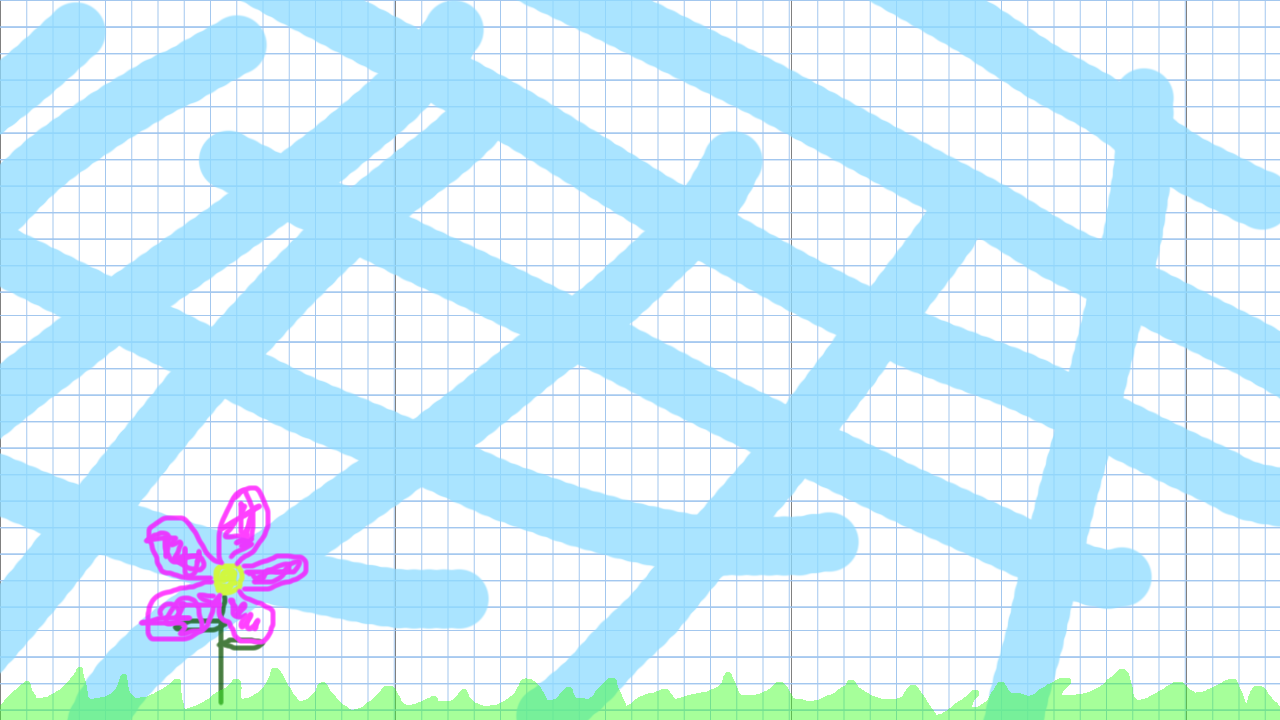
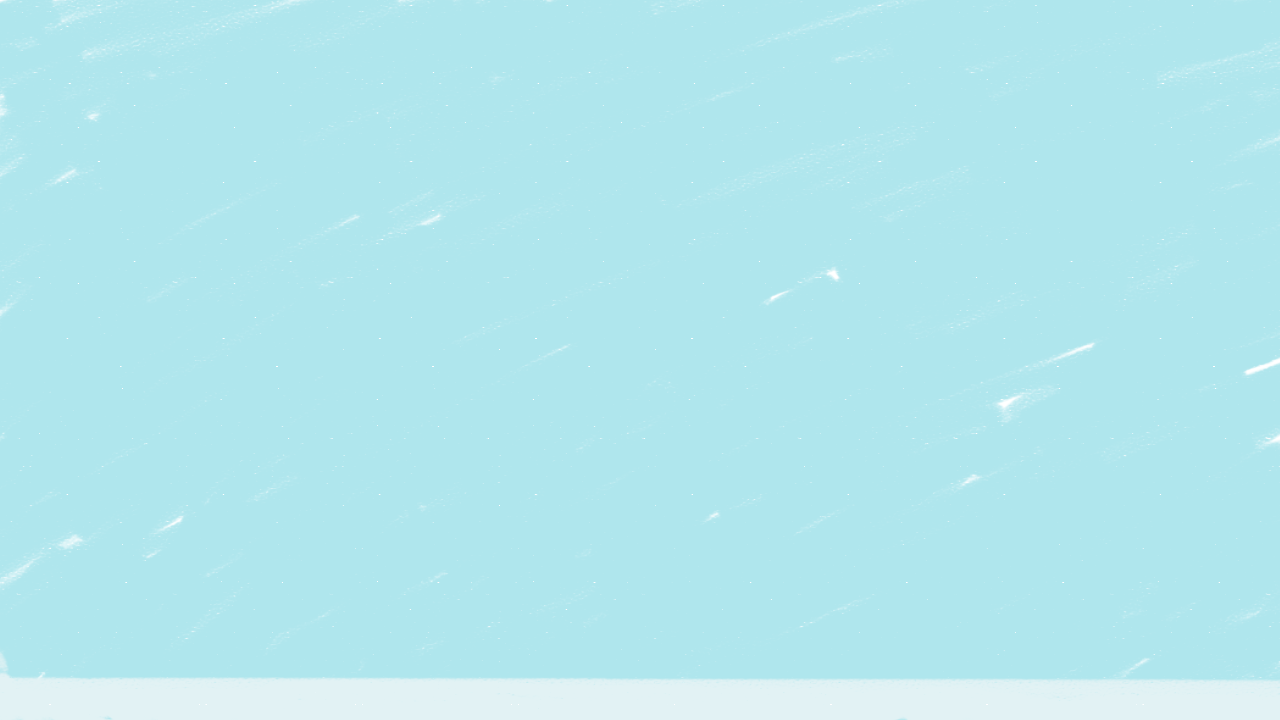
Emitter

diff --git a/Game_2_0/Pang/GameConfig.h b/Game_2_0/Pang/GameConfig.h
@@ -11,7 +11,7 @@ namespace GameConfig
 	const int SCREEN_WIDTH = 1280;
 	const int SCREEN_HEIGHT = 720;
 	const int FIXED_FRAMERATE = 60;
-	const int GROUND_Y = SCREEN_HEIGHT;
+	const int GROUND_Y = SCREEN_HEIGHT - 40;
 	const float GRAVITY_Y = 1.0f;
 	const float GROUND_FRICTION_X = 0.05f;
 	const int MAX_ATTEMPTS = 10;
@@ -86,23 +86,46 @@ namespace GameConfig
 	{
 		{
 			// LEVEL 01
-			{ 128, 128 },
 			{ 512, 512 },
-			{ 256, 256 }
-		}
-	};
-	const int LEVEL_BACKGROUNDANIM_FRAMES[LEVELS_LENGHT][LEVEL_BACKGROUNDANIMS_LENGHT] = { { 4, 4, 4 } };
-	const int LEVEL_BACKGROUNDANIM_COLUMNS[LEVELS_LENGHT][LEVEL_BACKGROUNDANIMS_LENGHT] = { { 2, 2, 2 } };
-	const int LEVEL_BACKGROUNDANIM_DURATION[LEVELS_LENGHT][LEVEL_BACKGROUNDANIMS_LENGHT] = { { 20, 20, 20 } };
-	const GameUtils2D::Vector2 LEVEL_BACKGROUNDANIM_POSITION[LEVELS_LENGHT][LEVEL_BACKGROUNDANIMS_LENGHT] =
-	{
-		{
-			{10, 10},
-			{SCREEN_WIDTH - 550, 50},
-			{200, 200}
+			{ 512, 512 },
+			{ 1280, 100 }
 		}
 	};
 
+	const int LEVEL_BACKGROUNDANIM_FRAMES[LEVELS_LENGHT][LEVEL_BACKGROUNDANIMS_LENGHT] = { { 4, 4, 1 } };
+	const int LEVEL_BACKGROUNDANIM_COLUMNS[LEVELS_LENGHT][LEVEL_BACKGROUNDANIMS_LENGHT] = { { 2, 2, 1 } };
+	const int LEVEL_BACKGROUNDANIM_DURATION[LEVELS_LENGHT][LEVEL_BACKGROUNDANIMS_LENGHT] = { { 60, 20, -1 } };
+	const GameUtils2D::Vector2 LEVEL_BACKGROUNDANIM_POSITION[LEVELS_LENGHT][LEVEL_BACKGROUNDANIMS_LENGHT] =
+	{
+		{
+			{250, GROUND_Y - 256},
+			{SCREEN_WIDTH - 175, 125},
+			{0 + 640, GROUND_Y - 50}
+		}
+	};
+
+	// TODO: Detectar colisio amb multiples Emitters!
 	const int LEVEL_BUBBLEMANAGERS_LENGHT[LEVELS_LENGHT] = { 1 };
 	const int LEVEL_BUBBLEMANAGERS_CAT[LEVELS_LENGHT][3] = { {3, 3, 3} };
+
+	// PARTICLES
+	enum Emitters{TEST = 0};
+	const int EMITTERS_LENGHT = 1;
+	const char PARTICLES_SPRITE[EMITTERS_LENGHT][45] = { "assets/particles/test_particle.png" };
+	const int PARTICLES_LENGHT[EMITTERS_LENGHT] = { 30 };
+	const float PARTICLES_MIN_SPEED[EMITTERS_LENGHT] = { 1.0f };
+	const float PARTICLES_MAX_SPEED[EMITTERS_LENGHT] = { 2.0f };
+	const int PARTICLES_MIN_DURATION[EMITTERS_LENGHT] = { 60 };
+	const int PARTICLES_MAX_DURATION[EMITTERS_LENGHT] = { 90 };
 }
+
+
+
+
+
+
+
+
+
+
+

diff --git a/Game_2_0/Pang/ParticlesEmitter.cpp b/Game_2_0/Pang/ParticlesEmitter.cpp
@@ -1,0 +1,72 @@
+#include "ParticlesEmitter.h"
+
+ParticlesEmitter::ParticlesEmitter()
+{
+	m_particles = NULL;
+}
+
+
+ParticlesEmitter::~ParticlesEmitter()
+{
+	delete[] m_particles;
+}
+
+void ParticlesEmitter::New(Emitters type, Vector2 position, ALLEGRO_BITMAP * image)
+{
+	m_type = type;
+	SetPosition(position);
+	m_particles = new Particle[PARTICLES_LENGHT[m_type]];
+
+	//for (int i = 0; i < PARTICLES_LENGHT[m_type]; i++) m_particles[i] = Particle(image);
+	for (int i = 0; i < PARTICLES_LENGHT[m_type]; i++) m_particles[i].Construct(image);
+}
+
+void ParticlesEmitter::Burst()
+{
+	for (int i = 0; i < PARTICLES_LENGHT[m_type]; i++)
+	{
+		if (IsActive())
+		{
+			// TODO: CHECK RANDOM FUNCS!!!
+			m_particles[i].New(
+			GetPosition(),
+			{ 1, 1/*GetRandomValue(PARTICLES_MIN_SPEED[m_type], PARTICLES_MAX_SPEED[m_type]), GetRandomValue(PARTICLES_MIN_SPEED[m_type], PARTICLES_MAX_SPEED[m_type])*/ },
+			{(float)GetRandomValue(-1, 1), (float)GetRandomValue(-1, 1)},
+			{ GetRandomValue(PARTICLES_MIN_DURATION[m_type], PARTICLES_MAX_DURATION[m_type])}
+			);
+		}
+	}
+}
+
+void ParticlesEmitter::Update()
+{
+	if (IsActive())
+	{
+		for (int i = 0; i < PARTICLES_LENGHT[m_type]; i++)
+		{
+			m_particles[i].Update();
+		}
+	}
+}
+
+void ParticlesEmitter::Draw()
+{
+	if (IsDrawable())
+	{
+		for (int i = 0; i < PARTICLES_LENGHT[m_type]; i++)
+		{
+			m_particles[i].Draw();
+		}
+	}
+}
+
+bool ParticlesEmitter::IsAnyParticleActive()
+{
+	int i = 0;
+	while (!m_particles[i].IsActive() && i < PARTICLES_LENGHT[m_type])
+	{
+		i++;
+	}
+
+	return i != PARTICLES_LENGHT[m_type];
+}

diff --git a/Game_2_0/Pang/Pang.cpp b/Game_2_0/Pang/Pang.cpp
@@ -16,8 +16,12 @@ Pang::~Pang()
 
 void Pang::Initialize()
 {
+	srand((unsigned int)time(NULL));
+
 	player.New(0);
 	levelManager.StartNewLevel(0);
+	pEmitter.New(TEST, { SCREEN_WIDTH / 2, SCREEN_HEIGHT / 2 }, al_load_bitmap(PARTICLES_SPRITE[TEST]));
+	
 	//background.New(al_load_bitmap("main_background.png"), 2);
 	//background.NewAnimation(al_load_bitmap("clowd.png"), { 128, 128 }, 4, 2, 20, { 200, 150 }, 0);
 	//background.NewAnimation(al_load_bitmap("solet.png"), { 512, 512 }, 4, 2, 10, { SCREEN_WIDTH - 150, 150 }, 1);
@@ -58,6 +62,12 @@ void Pang::Update()
 	{
 		if (levelManager.GetIsStarted())
 		{
+			pEmitter.Update();
+			if (!pEmitter.IsAnyParticleActive())
+			{
+				printf("BURST!\n");
+				pEmitter.Burst();
+			}
 			player.CheckBubblesCollision(levelManager.GetBubbles(), levelManager.GetBubblesLenght());
 			player.Update();
 
@@ -77,6 +87,7 @@ void Pang::Draw()
 {
 	levelManager.Draw();
 	player.Draw();
+	pEmitter.Draw();
 
 	if (isPaused)
 	{

diff --git a/Game_2_0/Pang/Particle.cpp b/Game_2_0/Pang/Particle.cpp
@@ -1,0 +1,62 @@
+#include "Particle.h"
+
+
+
+Particle::Particle()
+{
+}
+
+
+Particle::~Particle()
+{
+}
+
+//Particle::Particle(ALLEGRO_BITMAP* image)
+//{
+//	m_sprite.New(image);
+//	Deactivate();
+//}
+
+void Particle::Construct(ALLEGRO_BITMAP * image)
+{
+	m_sprite.New(image);
+	Deactivate();
+}
+
+void Particle::New(Vector2 position, Vector2 speed, Vector2 direction, int duration)
+{
+	SetPosition(position);
+	m_speed = speed;
+	m_direction = direction;
+	m_velocity = { 0, 0 };
+	m_counter = duration;
+	Activate();
+	
+
+}
+
+void Particle::Update()
+{
+	if (IsActive())
+	{
+		m_velocity = m_speed*m_direction;
+		Translate(m_velocity);
+
+		if (m_counter == 0)
+		{
+			Deactivate();
+		}
+		else
+		{
+			m_counter--;
+		}
+	}
+}
+
+void Particle::Draw()
+{
+	if(IsDrawable())
+	{
+		m_sprite.Draw(GetPosition());
+	}
+}

diff --git a/Game_2_0/Pang/Animation2D.cpp b/Game_2_0/Pang/Animation2D.cpp
@@ -107,23 +107,25 @@ void Animation2D::Reset()
 
 void Animation2D::Update()
 {
-	if (counter >= duration)
+	if (duration != -1)
 	{
-		counter = 0;
-
-		if (currentFrame < frames-1)
+		if (counter >= duration)
 		{
-			currentFrame++;
+			counter = 0;
+
+			if (currentFrame < frames - 1)
+			{
+				currentFrame++;
+			}
+			else if (repeat) currentFrame = 0;
+
+			//printf("currFrame: %i \n", currentFrame);
 		}
-		else if (repeat) currentFrame = 0;
-
-		//printf("currFrame: %i \n", currentFrame);
+		else
+		{
+			counter++;
+		}
 	}
-	else
-	{
-		counter++;
-	}
-
 }
 
 void Animation2D::Draw(Vector2 position, bool hFlip)

diff --git a/Game_2_0/Pang/Particle.h b/Game_2_0/Pang/Particle.h
@@ -1,0 +1,28 @@
+#pragma once
+
+#include "GameObject.h"
+#include "Sprite.h"
+
+class Particle : public GameObject
+{
+private:
+
+	Sprite m_sprite;
+	Vector2 m_speed;
+	Vector2 m_direction;
+	Vector2 m_velocity;
+	int m_counter;
+	
+public:
+	Particle();
+	~Particle();
+
+	//Particle(ALLEGRO_BITMAP* image);
+	void Construct(ALLEGRO_BITMAP* image);
+	void New(Vector2 position, Vector2 speed, Vector2 direction, int duration);
+	void Update();
+	void Draw();
+
+
+};
+

diff --git a/Game_2_0/Pang/ParticlesEmitter.h b/Game_2_0/Pang/ParticlesEmitter.h
@@ -1,0 +1,25 @@
+#pragma once
+
+#include "Particle.h"
+#include "GameConfig.h"
+#include "GameObject.h"
+
+using namespace GameConfig;
+
+class ParticlesEmitter : public GameObject
+{
+private:
+	Particle *m_particles;
+	Emitters m_type;
+
+public:
+	ParticlesEmitter();
+	~ParticlesEmitter();
+
+	void New(Emitters type, Vector2 position, ALLEGRO_BITMAP * image);
+	void Burst();
+	void Update();
+	void Draw();
+	bool IsAnyParticleActive();
+};
+

diff --git a/Game_2_0/Pang/GameUtils2D.h b/Game_2_0/Pang/GameUtils2D.h
@@ -1,5 +1,7 @@
 #pragma once
 
+#include <stdlib.h>
+
 namespace GameUtils2D
 {
 	enum Orientation {RIGHT = 0, LEFT};
@@ -79,8 +81,8 @@ namespace GameUtils2D
 		Vector2 offset;
 		bool repeat;
 	};
-
-	// Copies a to b
-	void CharSringCpy(char a[], char b[], int dim);
-	void CharSringCpy(char a[], char b[]);
+	
+	// TODO: REPAIR!
+	int GetRandomValue(int a, int b);
+	float GetRandomValue(float a, float b);
 }

diff --git a/Game_2_0/Pang/Pang.h b/Game_2_0/Pang/Pang.h
@@ -9,6 +9,8 @@
 #include "Background.h"
 #include "BubbleManager.h"
 #include "LevelsManager.h"
+
+#include "ParticlesEmitter.h" // temp
 //#include "Level.h" // temp
 //#include "Bubble.h" // temp
 //#include "MultiAnimation2D.h" // temp
@@ -20,6 +22,7 @@ class Pang
 private:
 	Player player;
 	LevelsManager levelManager;
+	ParticlesEmitter pEmitter;
 
 	bool isPaused;
 	Sprite pauseSprite;

diff --git a/Game_2_0/Pang/GameUtils2D.cpp b/Game_2_0/Pang/GameUtils2D.cpp
@@ -1,0 +1,13 @@
+#pragma once
+
+#include "GameUtils2D.h"
+
+int GameUtils2D::GetRandomValue(int a, int b)
+{
+	return rand() % (b - a) + a;
+}
+
+float GameUtils2D::GetRandomValue(float a, float b)
+{
+	return (float)rand() / ((b - a) + a) * a;
+}
